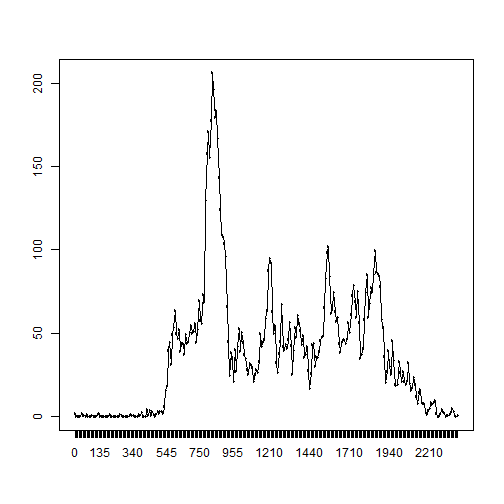
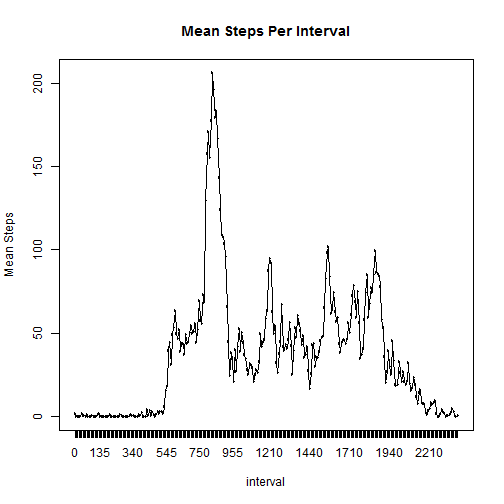
final touches

Changed region(s): [[0.3571, 0.0298, 0.7143, 0.0893], [0.0, 0.4167, 0.0298, 0.5655], [0.4762, 0.9524, 0.5655, 0.9821]]

diff --git a/activity.html b/activity.html
@@ -206,6 +206,8 @@ Coursera - Reproducible Research<br/>
 Peer Assessment #1<br/>
 Feb 14, 2015  </p>
 
+<hr/>
+
 <p>The following is a brief analysis of activity data collected by a single person
 wearing a fitness tracker.  The data contains step counts in 5 minute intervals
 over a two month span.</p>
@@ -242,8 +244,10 @@ hist(steps.per.day$V1,
 
 <p>Each bar in the histogram represents a range of 1000 steps.  As you can see 
 the histogram approximates a normal distribution centered around 10,000-11,000 steps. 
-The mean steps per day is 1.076619 &times; 10<sup>4</sup> and the median is 10765.
+The mean steps per day is 10766 and the median is 10765.
 This corresponds with what we see in the histogram.</p>
+
+<hr/>
 
 <h2>What is the average daily activity pattern?</h2>
 
@@ -264,9 +268,10 @@ steps.per.interval &lt;- transform(steps.per.interval, interval=factor(interval)
 # a line.  So I&#39;ll use plot+lines instead.
 with(steps.per.interval, plot(interval,V1,type=&quot;n&quot;))
 with(steps.per.interval, lines(interval,V1))
+title(main=&quot;Mean Steps Per Interval&quot;,xlab=&quot;interval&quot;,ylab=&quot;Mean Steps&quot;)
 </code></pre>
 
[2 lines of base64/hex data omitted]
 
 <p>Most step activity occurs in the morning, prior to 10 AM. Let&#39;s find the interval
 with the maximum average steps:</p>
@@ -282,6 +287,8 @@ steps.per.interval[V1==max(steps.per.interval$V1),]
 <p>So the interval with the maximum average steps across all days is 8:35 AM,
 with ~206 steps.  That&#39;s probably around the time every morning 
 when this person went to work or class or whatever.</p>
+
+<hr/>
 
 <h2>Imputing missing values</h2>
 
@@ -349,14 +356,16 @@ hist(steps.per.day2$V1,
 
[1 lines of base64/hex data omitted]
 
-<p>As you can see, the histograms are mostly unchanged except for the bar in the middle, which on the imputed
-side has 8 more days in that range.  This corresponds to the 8 days that are missing data in the original
-dataset.  The imputed values for those days are all the same and, when summed up per day, equal exactly
-to the average steps per day, 1.076619 &times; 10<sup>4</sup>, which falls in the middle bar.  So all 8 days got added to the middle
+<p>As you can see, the histograms are mostly identical except for the bar in the middle, which on the imputed
+side has an additional 8 days in the middle range of 10,000-11,000 steps.  This corresponds to the 8 days that are missing data in the original
+dataset.  The imputed values for those days are all the same and, when summed up per day, equal 
+the average steps per day, 10766, which falls in the middle bar.  So all 8 days got added to the middle
 bar, while the other bars remained unchanged.</p>
 
 <p>The mean and median are slightly different between the two datasets.  This is likely due to rounding errors introduced
 in the getMeanStepsPerInterval function, which rounds off the mean steps per interval to an integer.</p>
+
+<hr/>
 
 <h2>Are there differences in activity patterns between weekdays and weekends?</h2>
 

diff --git a/activity.md b/activity.md
@@ -3,7 +3,7 @@ Coursera - Reproducible Research
 Peer Assessment #1  
 Feb 14, 2015  
 
-
+--------------------------------------------------------------------------------------
 The following is a brief analysis of activity data collected by a single person
 wearing a fitness tracker.  The data contains step counts in 5 minute intervals
 over a two month span.
@@ -49,10 +49,11 @@ hist(steps.per.day$V1,
 
 Each bar in the histogram represents a range of 1000 steps.  As you can see 
 the histogram approximates a normal distribution centered around 10,000-11,000 steps. 
-The mean steps per day is 1.076619 &times; 10<sup>4</sup> and the median is 10765.
+The mean steps per day is 10766 and the median is 10765.
 This corresponds with what we see in the histogram.
 
 
+--------------------------------------------------------------------------------------
 ## What is the average daily activity pattern?
 
 
@@ -75,6 +76,7 @@ steps.per.interval <- transform(steps.per.interval, interval=factor(interval))
 # a line.  So I'll use plot+lines instead.
 with(steps.per.interval, plot(interval,V1,type="n"))
 with(steps.per.interval, lines(interval,V1))
+title(main="Mean Steps Per Interval",xlab="interval",ylab="Mean Steps")
 ```
 
 ![plot of chunk unnamed-chunk-3](figure/unnamed-chunk-3-1.png) 
@@ -100,6 +102,7 @@ with ~206 steps.  That's probably around the time every morning
 when this person went to work or class or whatever.
 
 
+--------------------------------------------------------------------------------------
 ## Imputing missing values
 
 
@@ -179,16 +182,17 @@ hist(steps.per.day2$V1,
 ![plot of chunk unnamed-chunk-7](figure/unnamed-chunk-7-1.png) 
 
 
-As you can see, the histograms are mostly unchanged except for the bar in the middle, which on the imputed
-side has 8 more days in that range.  This corresponds to the 8 days that are missing data in the original
-dataset.  The imputed values for those days are all the same and, when summed up per day, equal exactly
-to the average steps per day, 1.076619 &times; 10<sup>4</sup>, which falls in the middle bar.  So all 8 days got added to the middle
+As you can see, the histograms are mostly identical except for the bar in the middle, which on the imputed
+side has an additional 8 days in the middle range of 10,000-11,000 steps.  This corresponds to the 8 days that are missing data in the original
+dataset.  The imputed values for those days are all the same and, when summed up per day, equal 
+the average steps per day, 10766, which falls in the middle bar.  So all 8 days got added to the middle
 bar, while the other bars remained unchanged.
 
 The mean and median are slightly different between the two datasets.  This is likely due to rounding errors introduced
 in the getMeanStepsPerInterval function, which rounds off the mean steps per interval to an integer.
 
 
+--------------------------------------------------------------------------------------
 ## Are there differences in activity patterns between weekdays and weekends?
 
 
